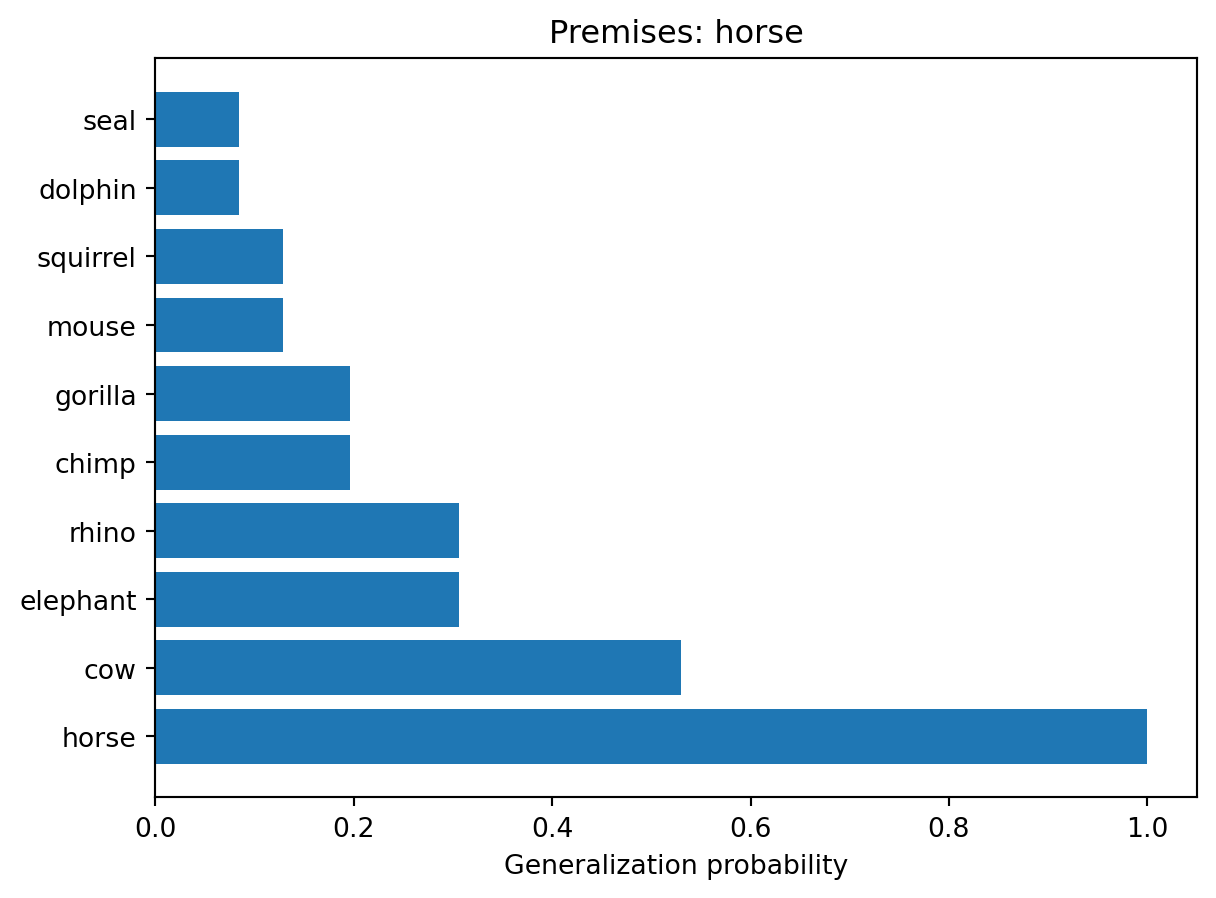
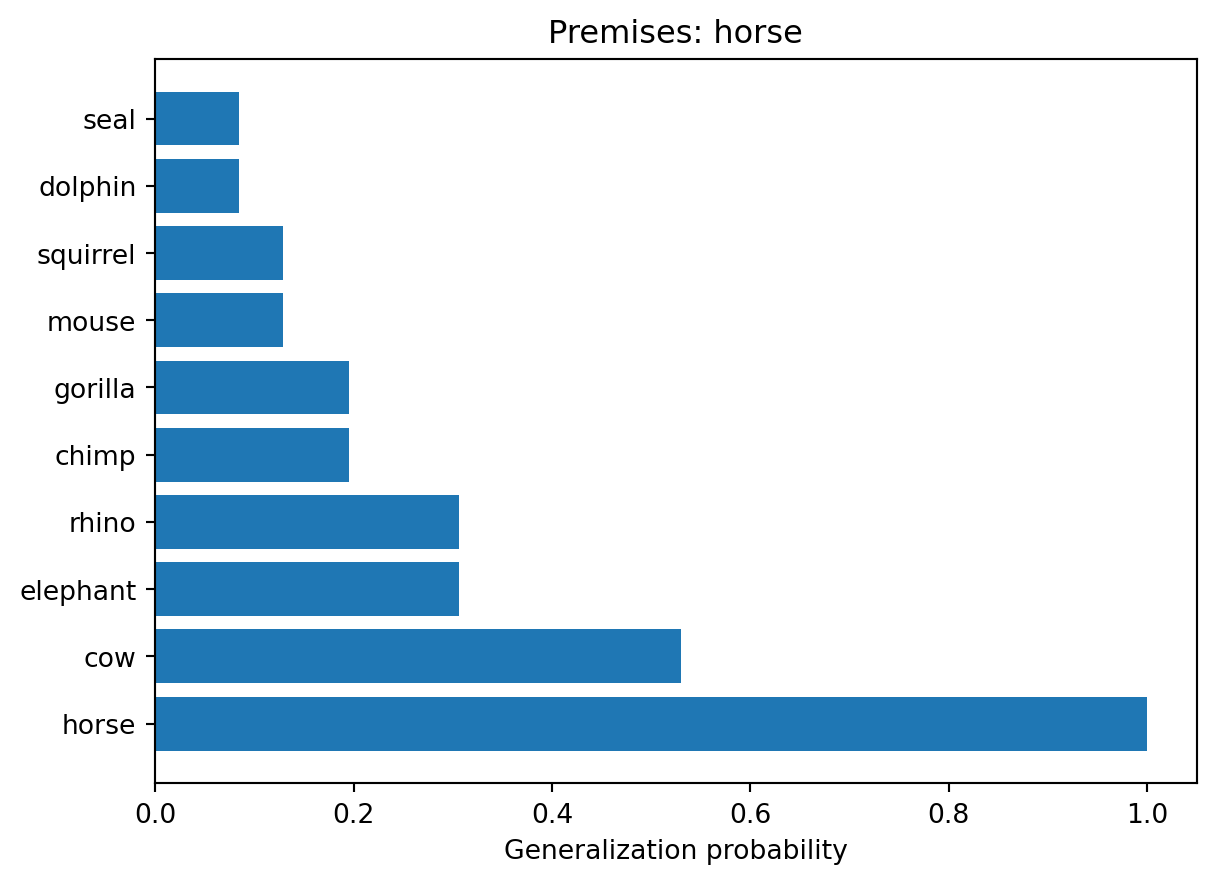
Updated HW 1

diff --git a/docs/03-generalization.html b/docs/03-generalization.html
@@ -251,7 +251,7 @@ gtag('config', 'G-HG2MG0W08W', { 'anonymize_ip': true});
 
 <header id="title-block-header" class="quarto-title-block default">
 <div class="quarto-title">
-<h1 class="title"><span id="generalization" class="quarto-section-identifier"><span class="chapter-number">3</span>&nbsp; <span class="chapter-title">Generalization</span></span></h1>
+<h1 class="title"><span class="chapter-number">3</span>&nbsp; <span class="chapter-title">Generalization</span></h1>
 </div>
 
 
@@ -399,7 +399,7 @@ Horses have blicketitis</code></pre>
 <p><span class="math display">\[
 P(h) \propto \frac{1}{\phi^k}
 \]</span> where <span class="math inline">\(k\)</span> is the number of clusters in <span class="math inline">\(h\)</span>. <span class="math inline">\(\phi\)</span> is a parameter that we can choose. As long as <span class="math inline">\(\phi &gt; 1\)</span>, <span class="math inline">\(P(h)\)</span> will be smaller for hypotheses consisting of more clusters. This has the effect of assigning higher weight to “simpler” hypotheses.</p>
-<p>Once again, we will make the <a href="#sampling-assumptions">strong sampling assumption</a> for the likelihood. This time, <span class="math inline">\(|h|\)</span> is the number of animal species in <span class="math inline">\(h\)</span> and <span class="math inline">\(n\)</span> is the number of examples in the premises.</p>
+<p>Once again, we will make the <a href="06-sampling-assumptions.html#sampling-assumptions">strong sampling assumption</a> for the likelihood. This time, <span class="math inline">\(|h|\)</span> is the number of animal species in <span class="math inline">\(h\)</span> and <span class="math inline">\(n\)</span> is the number of examples in the premises.</p>
 <p>A consequence of both of these assumptions is something like <a href="https://en.wikipedia.org/wiki/Occam%27s_razor">Occam’s razor</a> which says that the simplest explanation should be preferred. This model will assign 0 likelihood to any hypotheses that don’t include <span class="math inline">\(X\)</span>, thus narrowing the hypothesis space down to just hypotheses that are possible. Of those, it will favor hypotheses with fewer clusters and with fewer animals. In other words, it will favor the simplest hypotheses that are consistent with the examples we’ve seen.</p>
 </section>
 <section id="try-out-the-model-yourself" class="level3" data-number="3.3.3">
@@ -554,7 +554,7 @@ P(h) \propto \frac{1}{\phi^k}
 <div class="cell" data-execution_count="2">
 <div class="sourceCode cell-code" id="cb4"><pre class="sourceCode python code-with-copy"><code class="sourceCode python"><span id="cb4-1"><a href="#cb4-1" aria-hidden="true" tabindex="-1"></a>animalGeneralization([<span class="st">"horse"</span>])</span></code><button title="Copy to Clipboard" class="code-copy-button"><i class="bi"></i></button></pre></div>
 <div class="cell-output cell-output-display">
-<p><img src="03-generalization_files/figure-html/cell-3-output-1.png" width="608" height="449"></p>
+<p><img src="03-generalization_files/figure-html/cell-3-output-1.png" width="608" height="442"></p>
 </div>
 <div class="cell-output cell-output-display" data-execution_count="2">
 <pre><code>array([1.        , 0.52984834, 0.30628906, 0.30628906, 0.19579428,
@@ -565,7 +565,7 @@ P(h) \propto \frac{1}{\phi^k}
 <div class="cell" data-execution_count="3">
 <div class="sourceCode cell-code" id="cb6"><pre class="sourceCode python code-with-copy"><code class="sourceCode python"><span id="cb6-1"><a href="#cb6-1" aria-hidden="true" tabindex="-1"></a>animalGeneralization([<span class="st">"horse"</span>, <span class="st">"cow"</span>, <span class="st">"mouse"</span>])</span></code><button title="Copy to Clipboard" class="code-copy-button"><i class="bi"></i></button></pre></div>
 <div class="cell-output cell-output-display">
-<p><img src="03-generalization_files/figure-html/cell-4-output-1.png" width="608" height="449"></p>
+<p><img src="03-generalization_files/figure-html/cell-4-output-1.png" width="608" height="442"></p>
 </div>
 <div class="cell-output cell-output-display" data-execution_count="3">
 <pre><code>array([1.        , 1.        , 0.57379051, 0.57379051, 0.47852518,
@@ -576,7 +576,7 @@ P(h) \propto \frac{1}{\phi^k}
 <div class="cell" data-execution_count="4">
 <div class="sourceCode cell-code" id="cb8"><pre class="sourceCode python code-with-copy"><code class="sourceCode python"><span id="cb8-1"><a href="#cb8-1" aria-hidden="true" tabindex="-1"></a>animalGeneralization([<span class="st">"horse"</span>, <span class="st">"cow"</span>, <span class="st">"mouse"</span>, <span class="st">"squirrel"</span>])</span></code><button title="Copy to Clipboard" class="code-copy-button"><i class="bi"></i></button></pre></div>
 <div class="cell-output cell-output-display">
-<p><img src="03-generalization_files/figure-html/cell-5-output-1.png" width="608" height="449"></p>
+<p><img src="03-generalization_files/figure-html/cell-5-output-1.png" width="608" height="442"></p>
 </div>
 <div class="cell-output cell-output-display" data-execution_count="4">
 <pre><code>array([1.        , 1.        , 0.64983602, 0.64983602, 0.58531333,
@@ -587,7 +587,7 @@ P(h) \propto \frac{1}{\phi^k}
 <div class="cell" data-execution_count="5">
 <div class="sourceCode cell-code" id="cb10"><pre class="sourceCode python code-with-copy"><code class="sourceCode python"><span id="cb10-1"><a href="#cb10-1" aria-hidden="true" tabindex="-1"></a>animalGeneralization([<span class="st">"horse"</span>, <span class="st">"cow"</span>, <span class="st">"mouse"</span>, <span class="st">"squirrel"</span>, <span class="st">"horse"</span>, <span class="st">"squirrel"</span>])</span></code><button title="Copy to Clipboard" class="code-copy-button"><i class="bi"></i></button></pre></div>
 <div class="cell-output cell-output-display">
-<p><img src="03-generalization_files/figure-html/cell-6-output-1.png" width="608" height="449"></p>
+<p><img src="03-generalization_files/figure-html/cell-6-output-1.png" width="608" height="442"></p>
 </div>
 <div class="cell-output cell-output-display" data-execution_count="5">
 <pre><code>array([1.        , 1.        , 0.32551484, 0.32551484, 0.26938358,
@@ -602,13 +602,13 @@ P(h) \propto \frac{1}{\phi^k}
 <span id="cb12-2"><a href="#cb12-2" aria-hidden="true" tabindex="-1"></a>animalGeneralization([<span class="st">"gorilla"</span>, <span class="st">"gorilla"</span>])</span>
 <span id="cb12-3"><a href="#cb12-3" aria-hidden="true" tabindex="-1"></a>animalGeneralization([<span class="st">"gorilla"</span>, <span class="st">"gorilla"</span>, <span class="st">"gorilla"</span>])</span></code><button title="Copy to Clipboard" class="code-copy-button"><i class="bi"></i></button></pre></div>
 <div class="cell-output cell-output-display">
-<p><img src="03-generalization_files/figure-html/cell-7-output-1.png" width="608" height="449"></p>
+<p><img src="03-generalization_files/figure-html/cell-7-output-1.png" width="608" height="442"></p>
 </div>
 <div class="cell-output cell-output-display">
-<p><img src="03-generalization_files/figure-html/cell-7-output-2.png" width="608" height="449"></p>
+<p><img src="03-generalization_files/figure-html/cell-7-output-2.png" width="608" height="442"></p>
 </div>
 <div class="cell-output cell-output-display">
-<p><img src="03-generalization_files/figure-html/cell-7-output-3.png" width="608" height="449"></p>
+<p><img src="03-generalization_files/figure-html/cell-7-output-3.png" width="608" height="442"></p>
 </div>
 <div class="cell-output cell-output-display" data-execution_count="6">
 <pre><code>array([0.01730482, 0.01730482, 0.01730482, 0.01730482, 0.1259028 ,

diff --git a/docs/01-intro.html b/docs/01-intro.html
@@ -2,7 +2,7 @@
 <html xmlns="http://www.w3.org/1999/xhtml" lang="en" xml:lang="en"><head>
 
 <meta charset="utf-8">
-<meta name="generator" content="quarto-1.3.433">
+<meta name="generator" content="quarto-1.3.450">
 
 <meta name="viewport" content="width=device-width, initial-scale=1.0, user-scalable=yes">
 
@@ -243,13 +243,13 @@ gtag('config', 'G-HG2MG0W08W', { 'anonymize_ip': true});
 </section>
 <section id="homework-1-build-your-first-computational-model" class="level2" data-number="1.2">
 <h2 data-number="1.2" class="anchored" data-anchor-id="homework-1-build-your-first-computational-model"><span class="header-section-number">1.2</span> Homework 1: Build your first computational model 💻</h2>
+<p>To get some initial experience with computational modeling, you’ll build and experiment with a simple model of classical conditioning developed by Robert Rescorla and Allan Wagner – now called the Rescorla-Wagner model.</p>
+<p>All homework assignments for this book will be done in Google Colab. Click the button below to view Homework 1.</p>
 <div class="quarto-figure quarto-figure-center">
 <figure class="figure">
-<p><a href="https://colab.research.google.com/drive/1MEiil0swXHERwJ38rVGZPTndyetHJPYQ?usp=sharing"><img src="https://colab.research.google.com/assets/colab-badge.svg" class="img-fluid figure-img"></a></p>
+<p><a href="https://colab.research.google.com/drive/1Rxi7Aqu6423eTypW_Ok6709hIVtOCtm0?usp=sharing"><img src="https://colab.research.google.com/assets/colab-badge.svg" class="img-fluid figure-img"></a></p>
 </figure>
 </div>
-<p>To get some initial experience with computational modeling, you’ll build and experiment with a simple model of classical conditioning developed by Robert Rescorla and Allan Wagner – now called the Rescorla-Wagner model.</p>
-<p>All homework assignments for this book will be done in Google Colab. Click the button at the top of this section to view Homework 1.</p>
 <div class="callout callout-style-default callout-note callout-titled">
 <div class="callout-header d-flex align-content-center">
 <div class="callout-icon-container">
